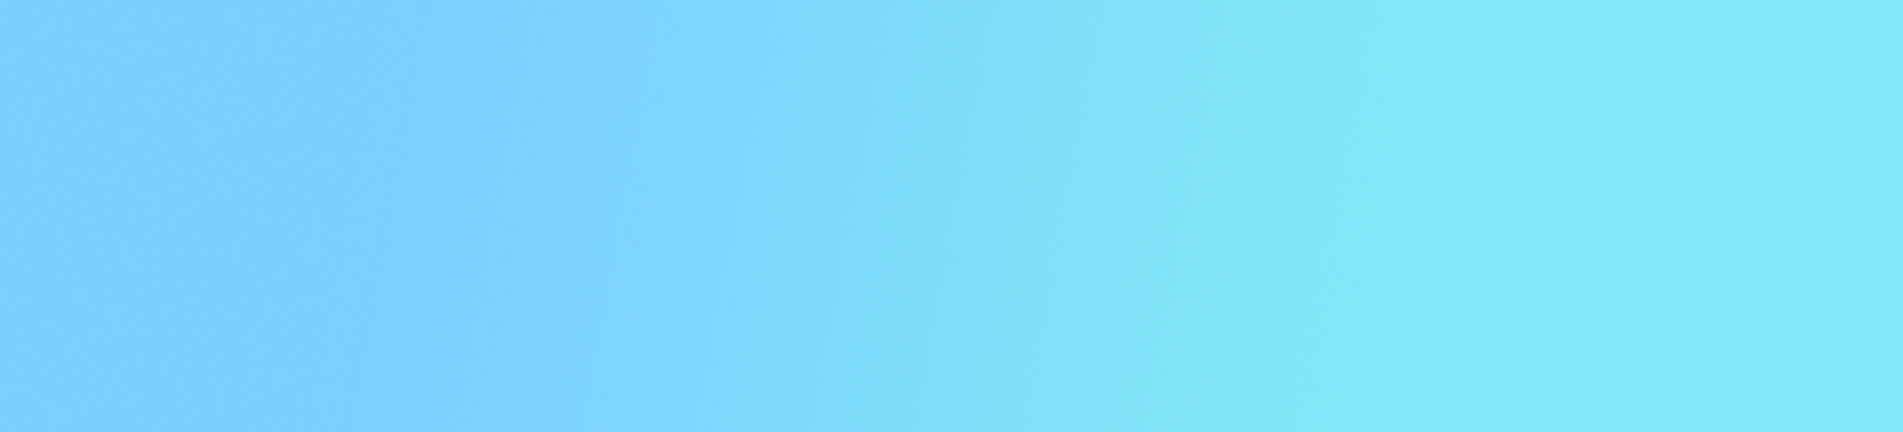
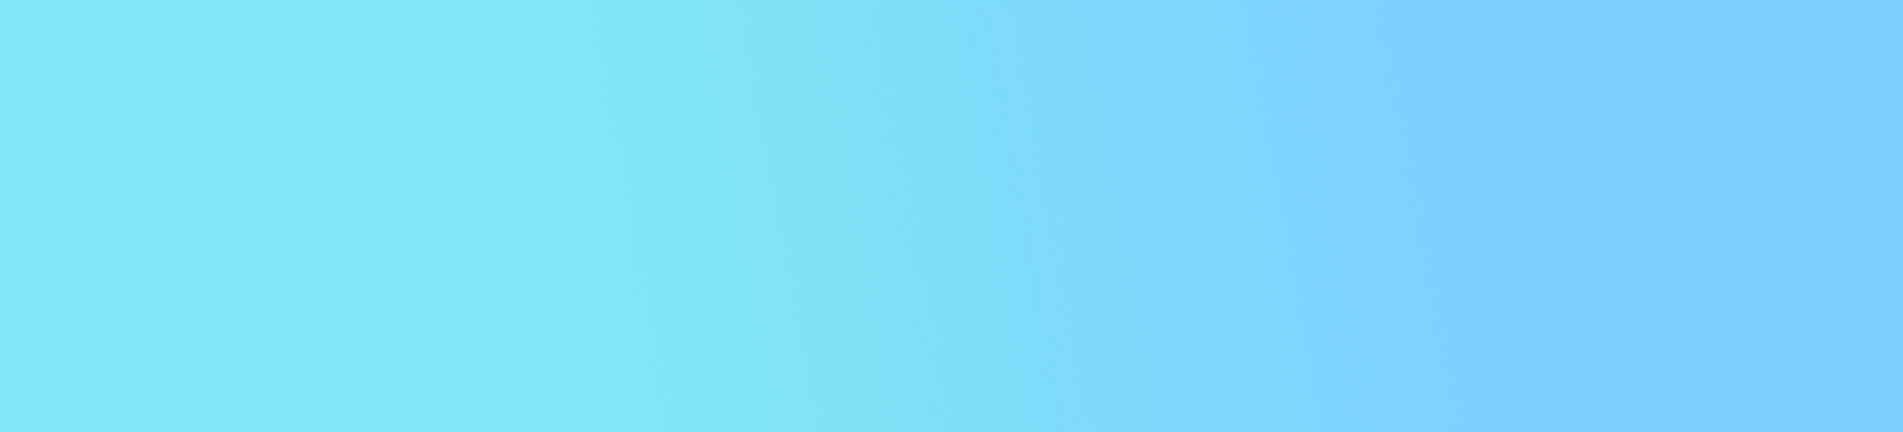
flipped bg picture, deleted dumb php script, messed with the stylesheets a little.

diff --git a/index.html b/index.html
@@ -1,4 +1,4 @@
-<!DOCTYPE html>
+ <!DOCTYPE html>
 <html>
   <head>
     <!--- google analytics and font stuff lol-->
@@ -23,7 +23,7 @@
     <header>
       <div class="inner">
         <h1>cristofer's terribly designed website</h1>
-        <h2>Hi, I'm Cristofer! I'm a freelance web developer that plays rhythm games and does other stuff</h2>
+        <h2>Hi, I'm Cris. I make websites and take pictures. </h2>
         <a href="https://github.com/OGCristofer" style="margin-right: -30px" class="button"><small>Follow me on</small> GitHub</a> <br>
         <a href="https://twitter.com/ogcristofer" style="margin-right: 200px" class="Twitter"><small>Follow me on </small>Twitter</a>
       </div>
@@ -33,6 +33,7 @@
       <a class="active" href="#home">Home</a>
       <a href="http://photography.ogcristofer.com">Photography</a>
       <a href="http://school.ogcristofer.com">School</a>
+      <a href="http://test.ogcristofer.com">Club</a>
     </div>
 
     <div id="content-wrapper">

diff --git a/stylesheets/stylesheet.css b/stylesheets/stylesheet.css
@@ -575,7 +575,7 @@ aside a.twitter {
 }
 /* Add a black background color to the top navigation */
 .topnav {
-    background-color: #333;
+    background-color: #7CCEFE;
     overflow: hidden;
 }
 
@@ -597,7 +597,7 @@ aside a.twitter {
 
 /* Add a color to the active/current link */
 .topnav a.active {
-    background-color: #275da1;
+    background-color: #82E6F6;
     color: white;
 }
 code, pre {

diff --git a/README.md b/README.md
@@ -1,1 +1,2 @@
 # ogcristofer.com
+This is just a little landing page for my website
